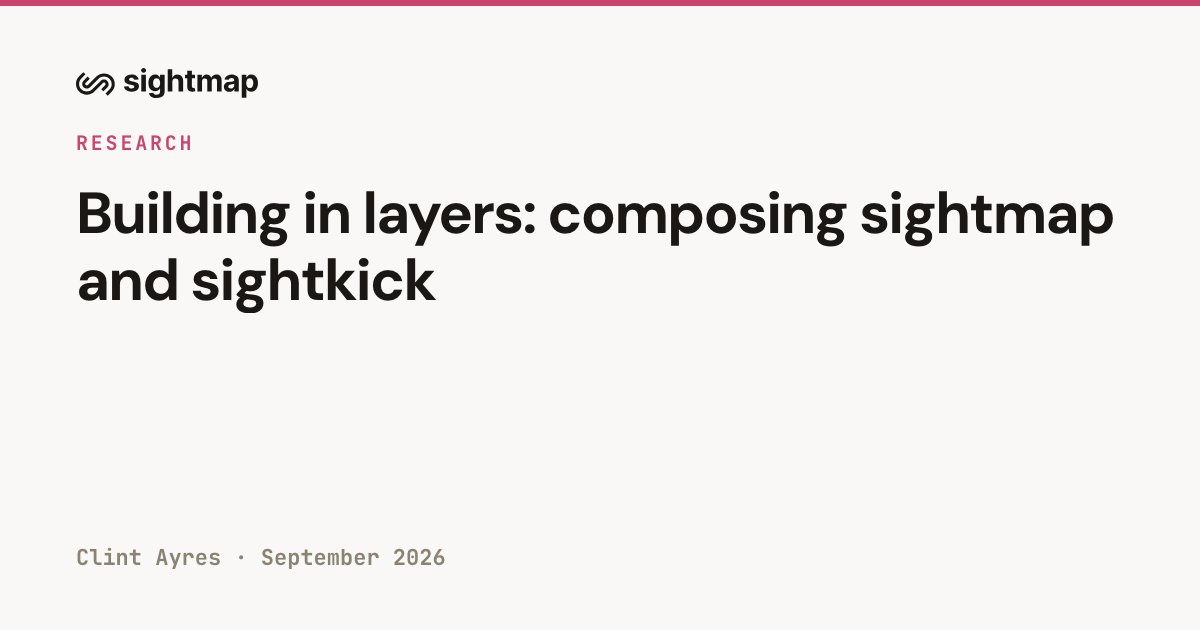
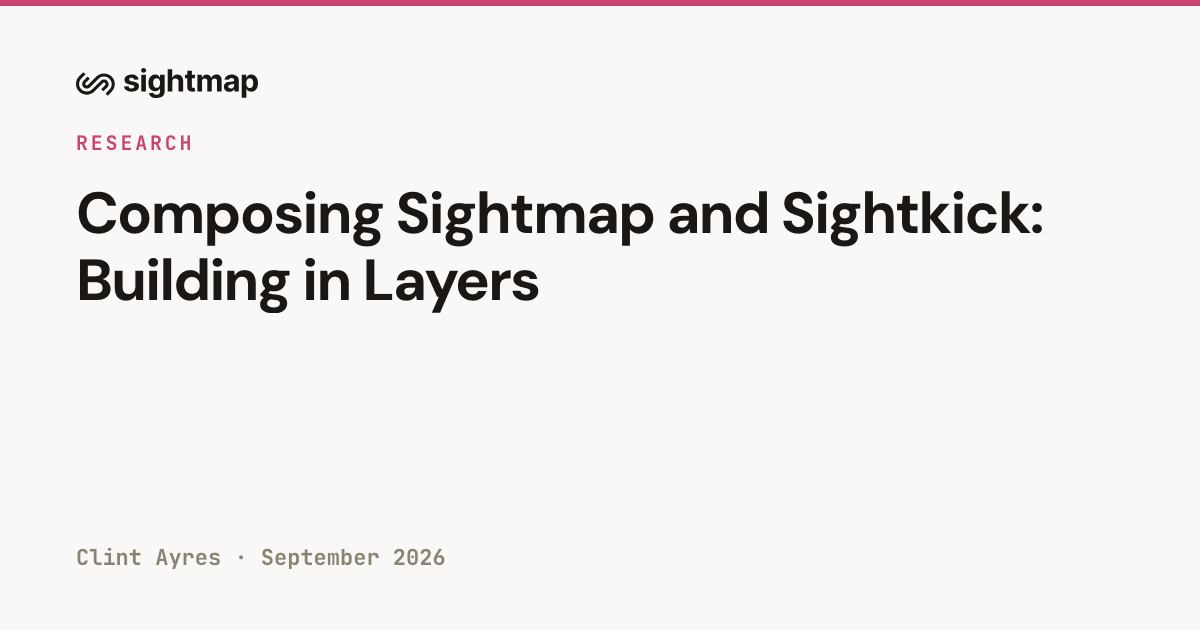
blog: restore the drafted intro and title, label calls vs guidance in frames
Title is 'Composing Sightmap and Sightkick: Building in Layers'.

Intro and layer descriptions now carry the drafted wording verbatim
rather than a condensed paraphrase of it.

The frame stepper's caption ran the call, the description, and the
next-step guidance together in one line, so it read as though
place_order and read_order_id were the same thing. Split into a CALLED
row (tool plus the params the feature line supplied) and a NEXT CALL
row (the successor the guidance names, which is advice, not history).
Shared with the sightkick post, which had the same ambiguity.

Changed region(s): [[0.0617, 0.3016, 0.925, 0.5127]]

diff --git a/web/src/components/blog/SightkickFrames.tsx b/web/src/components/blog/SightkickFrames.tsx
@@ -1,18 +1,25 @@
 import { useState } from 'react'
 
-// Frame-sequence stepper for the sightkick post: a numbered set of real
-// screenshots captured mid-session, stepped one at a time. Two figures:
-// "tool" walks one tool call's before/after; "journey" walks a full
-// purchase across all five views. Each frame pairs the screenshot with the
-// real guidance breadcrumb the prior tool call returned, so a "journey" —
-// which never executes anything itself — is shown as what it actually is:
-// the breadcrumbs an agent follows, not a recording of clicks.
+// Frame-sequence stepper: a numbered set of real screenshots captured
+// mid-session, stepped one at a time. Three figures: "tool" walks one tool
+// call's before/after, "customize" does the same for the item page, and
+// "journey" walks a full purchase across all five views.
+//
+// Each frame separates three things that are easy to confuse when they run
+// together in one caption: the call that produced this screen (with the
+// params the feature line supplied), what the screen shows, and the
+// guidance breadcrumb naming the call to make next. A journey never
+// executes anything itself, so that last one is advice, not history.
 
 type Frame = {
   src: string
   alt: string
+  // The call this frame is the result of, params included.
+  call: string
   caption: string
-  breadcrumb?: string
+  // The successor the prior call's guidance pointed at, and the author's
+  // reason for it. Advice for the next call, not something that ran.
+  next?: { tool: string; reason: string }
 }
 
 type FigureData = { frames: Frame[] }
@@ -25,21 +32,27 @@ const FIGURES: Record<string, FigureData> = {
       {
         src: `${IMG}/tool-04-promo-before.png`,
         alt: 'Checkout Review step, promo code field empty, total $23.65',
-        caption: 'Before: apply_promo(code="BURRITO20") has not run yet.',
+        call: 'apply_promo(code: "BURRITO20")',
+        caption: 'Before the call: the promo field is empty and the total is $23.65.',
       },
       {
         src: `${IMG}/tool-05-promo-after.png`,
         alt: 'Checkout Review step, BURRITO20 applied, total $18.92',
+        call: 'apply_promo(code: "BURRITO20")',
         caption:
-          'After: one call filled the code, clicked Apply, and confirmed the discount landed.',
-        breadcrumb:
-          'guidance → read_order_total: "read the discounted total while it still exists — it doesn\'t survive to the confirmation"',
+          'After: one call filled the code, clicked Apply, and waited for the discount to land.',
+        next: {
+          tool: 'read_order_total',
+          reason:
+            "read the discounted total while it still exists, it doesn't survive to the confirmation",
+        },
       },
       {
         src: `${IMG}/tool-06-promo-detail.png`,
         alt: 'Close-up of the order totals showing the promo line and new total',
+        call: 'apply_promo → returns',
         caption:
-          'The tool\'s own return value: value: "Total: $18.92" — the same number now on screen.',
+          'The tool\'s own return value: value: "Total: $18.92", read off ReviewTotals.total, the same number now on screen.',
       },
     ],
   },
@@ -48,11 +61,13 @@ const FIGURES: Record<string, FigureData> = {
       {
         src: `${IMG}/tool-02-item-before.png`,
         alt: 'Classic Burrito detail page, PROTEIN group with chicken selected, quantity 1',
-        caption: 'Before: customize_item(group: "protein", option: "steak") has not run yet.',
+        call: 'customize_item(group: "protein", option: "steak")',
+        caption: 'Before the call: the PROTEIN group still has its default, chicken, selected.',
       },
       {
         src: `${IMG}/tool-03-item-after.png`,
         alt: 'The same page with steak now selected in the PROTEIN group',
+        call: 'customize_item(group: "protein", option: "steak")',
         caption:
           'After: the option came back with a selected class, which is exactly what wait_for watches for. Call it again and the guard matches that same state, so nothing clicks twice.',
       },
@@ -63,53 +78,74 @@ const FIGURES: Record<string, FigureData> = {
       {
         src: `${IMG}/tool-01-menu.png`,
         alt: 'Burrito Co. menu with five items',
-        caption: 'read_menu — start of the purchase journey.',
-        breadcrumb:
-          'guidance → open_item: "customizations only exist on an item\'s own detail page"',
+        call: 'read_menu()',
+        caption: 'The start of the purchase journey: five menu rows, name and price.',
+        next: {
+          tool: 'open_item',
+          reason: "customizations only exist on an item's own detail page",
+        },
       },
       {
         src: `${IMG}/journey-02-item.png`,
         alt: 'Classic Burrito detail page, steak selected, quantity 2',
-        caption: 'customize_item("protein", "steak") + increase_item_quantity.',
-        breadcrumb:
-          'guidance → add_item_to_cart: "commit the item — this lands you on the cart, not back on the menu"',
+        call: 'customize_item(group: "protein", option: "steak") → increase_item_quantity()',
+        caption: 'Steak selected, quantity bumped to 2. Quantity is set here, not in the cart.',
+        next: {
+          tool: 'add_item_to_cart',
+          reason: 'commit the item, this lands you on the cart, not back on the menu',
+        },
       },
       {
         src: `${IMG}/journey-03-cart.png`,
         alt: 'Cart with one line: 2x Classic Burrito, $21.90',
-        caption: 'add_item_to_cart — the app navigates straight to the cart.',
-        breadcrumb:
-          'guidance → go_to_checkout: "only reachable from the cart, and only when the cart is non-empty"',
+        call: 'add_item_to_cart()',
+        caption: 'The tool does not just add, it navigates: the app lands straight on the cart.',
+        next: {
+          tool: 'go_to_checkout',
+          reason: 'only reachable from the cart, and only when the cart is non-empty',
+        },
       },
       {
         src: `${IMG}/journey-04-checkout-delivery.png`,
         alt: 'Checkout Delivery step with address fields filled',
-        caption: 'go_to_checkout — lands on step 1 of 3, Delivery.',
-        breadcrumb:
-          'guidance → submit_delivery_address: "the Delivery step gates the wizard; this advances it to Payment"',
+        call: 'go_to_checkout()',
+        caption: 'Lands on step 1 of 3, Delivery.',
+        next: {
+          tool: 'submit_delivery_address',
+          reason: 'the Delivery step gates the wizard; this advances it to Payment',
+        },
       },
       {
         src: `${IMG}/journey-05-checkout-payment.png`,
         alt: 'Checkout Payment step with card fields filled',
-        caption: 'submit_delivery_address — same route, now on step 2, Payment.',
-        breadcrumb:
-          'guidance → submit_payment_details: "pass a real 16-digit card — the pre-filled masked one is rejected"',
+        call:
+          'submit_delivery_address(street: "123 Main St", city: "Denver", state: "CO", zip: "80203")',
+        caption: 'Same route, now on step 2, Payment. The returned value is the active step name.',
+        next: {
+          tool: 'submit_payment_details',
+          reason: 'pass a real 16-digit card, the pre-filled masked one is rejected',
+        },
       },
       {
         src: `${IMG}/journey-06-checkout-review.png`,
         alt: 'Checkout Review step before the promo code',
-        caption:
-          'submit_payment_details — step 3, Review. Still no navigation: same URL as Delivery.',
-        breadcrumb:
-          'guidance → apply_promo: "BURRITO20 is only applyable on the Review step, before ordering"',
+        call: 'submit_payment_details(card_number: "4242 4242 4242 4242", expiry: "09/26")',
+        caption: 'Step 3, Review. Still no navigation: the same URL as Delivery.',
+        next: {
+          tool: 'apply_promo',
+          reason: 'BURRITO20 is only applyable on the Review step, before ordering',
+        },
       },
       {
         src: `${IMG}/journey-07-confirmation.png`,
         alt: 'Order confirmation screen showing an order id and the full (non-discounted) total',
+        call: 'place_order()',
         caption:
-          'place_order — order confirmed. Notice the total: $23.65, not $18.92 — the promo never reaches this screen.',
-        breadcrumb:
-          'guidance → read_order_id: "read the generated order id back as proof the order landed"',
+          'Order confirmed. Note the total: $23.65, not $18.92. The promo never reaches this screen.',
+        next: {
+          tool: 'read_order_id',
+          reason: 'read the generated order id back as proof the order landed',
+        },
       },
     ],
   },
@@ -150,8 +186,18 @@ export default function SightkickFrames({ figure = 'tool' }: { figure?: string }
         </button>
       </div>
       <figcaption>
-        {frame.caption}
-        {frame.breadcrumb && <div className="sk-frames__breadcrumb">{frame.breadcrumb}</div>}
+        <div className="sk-frames__call">
+          <span className="sk-frames__label">called</span>
+          <code>{frame.call}</code>
+        </div>
+        <div className="sk-frames__note">{frame.caption}</div>
+        {frame.next && (
+          <div className="sk-frames__breadcrumb">
+            <span className="sk-frames__label">next call</span>
+            <code>{frame.next.tool}</code>
+            <span className="sk-frames__reason">{frame.next.reason}</span>
+          </div>
+        )}
       </figcaption>
     </figure>
   )

diff --git a/web/src/index.css b/web/src/index.css
@@ -2009,15 +2009,67 @@ footer {
   color: var(--text-dim);
 }
 
+/* "called" and "next call" carry the distinction the caption used to blur:
+   what produced this screen, versus the guidance naming what to call next.
+   Both get the same label chip so the pairing is obvious at a glance. */
+.prose .sk-frames__label {
+  flex: none;
+  padding: 0.05rem 0.4rem;
+  border-radius: 5px;
+  background: var(--bg-subtle);
+  border: 1px solid var(--border);
+  font-family: var(--mono);
+  font-size: 0.62rem;
+  text-transform: uppercase;
+  letter-spacing: 0.06em;
+  color: var(--text-dim);
+}
+
+.prose .sk-frames__call,
 .prose .sk-frames__breadcrumb {
-  margin-top: 0.4rem;
+  display: flex;
+  flex-wrap: wrap;
+  align-items: baseline;
+  gap: 0.5rem;
+}
+
+.prose .sk-frames__call {
+  margin-bottom: 0.5rem;
+}
+
+.prose .sk-frames__call code,
+.prose .sk-frames__breadcrumb code {
+  font-family: var(--mono);
+  font-size: 0.78rem;
+  color: var(--text-bright);
+  background: none;
+  padding: 0;
+}
+
+.prose .sk-frames__note {
+  font-size: 0.85rem;
+  color: var(--text-dim);
+}
+
+.prose .sk-frames__breadcrumb {
+  margin-top: 0.5rem;
   padding: 0.5rem 0.75rem;
   border-radius: 8px;
   border: 1px solid var(--accent-dim);
   background: var(--accent-dim);
-  font-family: var(--mono);
   font-size: 0.78rem;
   color: var(--text);
+}
+
+.prose .sk-frames__breadcrumb .sk-frames__label {
+  background: transparent;
+  border-color: var(--accent);
+  color: var(--accent);
+}
+
+.prose .sk-frames__reason {
+  font-size: 0.78rem;
+  color: var(--text-dim);
 }
 
 /* Feature trace: the three-tier playback widget for the "building-in-layers"

diff --git a/web/content/blog/building-in-layers.md b/web/content/blog/building-in-layers.md
@@ -1,5 +1,5 @@
 ---
-title: 'Building in layers: composing sightmap and sightkick'
+title: 'Composing Sightmap and Sightkick: Building in Layers'
 excerpt: "What does browser automation look like when you design it for autonomous agents from day one? Three layers: a map that names the app, a toolbox of atomic actions over those names, and a spec that composes them. Each layer references the one below it only by name, and each one answers pass or fail on its own."
 topic: 'research'
 date: '2026-09-22'
@@ -8,13 +8,13 @@ slug: 'building-in-layers'
 image: '/blog/og/building-in-layers.png'
 ---
 
-What does browser automation look like when you design it for autonomous agents from day one?
+What does browser automation look like when you design it for autonomous AI agents from day one?
 
-Ask an agent to operate a modern web app and it hits a wall. The raw DOM is noisy, CSS selectors churn, and apps hide their state behind dynamic routing. Forcing a model to parse markup, infer business logic, locate elements, and execute all at once guarantees failure. The agent isn't failing for lack of intelligence. It's failing because we handed it the wrong primitives.
+If you ask an LLM agent to interact with a modern web app, it hits a fundamental wall. The raw DOM is too noisy, CSS selectors change constantly, and web apps hide their state behind complex, dynamic routing. Forcing an agent to parse raw HTML, infer business logic, map elements, and execute actions all at once guarantees failure. The agent isn't failing because it lacks intelligence; it's failing because we haven't given it the right primitives.
 
-An agent-first approach means rethinking the interface between models and web apps. Instead of treating the browser as a chaotic canvas of DOM nodes to guess against, decompose the interaction into structured, machine-legible layers.
+An agent-first approach requires rethinking the interface between models and web applications. Instead of treating the browser as a chaotic canvas of raw DOM nodes for an agent to guess against, we need to decompose web interaction into structured, machine-legible layers.
 
-That shift is why we built [sightmap](/blog/sightmap) and [sightkick](/blog/sightkick). Together they form a three-tier architecture built for agentic execution: a map, a toolbox, and a spec. Each layer is a checked-in artifact that references the layer below it strictly by name, and nothing more.
+That shift in perspective is why we built [Sightmap](/blog/sightmap) and [Sightkick](/blog/sightkick). Together, they establish a three-tiered architecture designed specifically for agentic execution: a map, a toolbox, and a spec. Each layer is a checked-in artifact, referencing the layer below it strictly by name, and nothing more.
 
 ## Three layers, bottom to top
 
@@ -24,7 +24,7 @@ That shift is why we built [sightmap](/blog/sightmap) and [sightkick](/blog/sigh
 
 Each example below is real, taken from Burrito Co.'s checkout.
 
-1. **Components (`.sightmap`), the agent's map.** Before an agent can act it needs a reliable map of the terrain. A [sightmap](/blog/sightmap) isolates the raw DOM by naming every view, component, and request in your app. **This is the only layer where CSS selectors exist.** The agent never sees CSS, only semantic component names. Here's `ReviewTotals`, the order-totals block on the checkout Review step:
+1. **Components (`.sightmap`), the agent's map.** Before an agent can act, it needs a reliable map of the terrain. A [Sightmap](/blog/sightmap) isolates the raw DOM by naming every view, component, and request in your application (e.g., `MenuCard`, `ApplyPromoButton`, `ReviewTotals`). **This is the only layer where raw CSS selectors exist.** The agent never sees CSS; it only sees clean, semantic component names. Here's `ReviewTotals`, the order-totals block on the checkout Review step:
 
    ```yaml
    - name: ReviewTotals
@@ -41,7 +41,7 @@ Each example below is real, taken from Burrito Co.'s checkout.
              extract: text
    ```
 
-2. **Tools (`.sightkick`), the agent's capabilities.** Rather than asking an agent to write browser manipulation code, [sightkick](/blog/sightkick) turns component names into atomic, callable tools. Every `query:` field references a corpus component by name, so `sightkick build` can validate the entire toolset up front: an agent can never invoke an action against a component that doesn't exist.
+2. **Tools (`.sightkick`), the agent's capabilities.** Instead of asking an agent to write raw browser manipulation code, [Sightkick](/blog/sightkick) translates component names into atomic, callable tools like `apply_promo`, `read_cart`, or `place_order`. A tool's `query` fields strictly reference Sightmap component names. Running `sightkick build` validates the entire toolset, ensuring an agent can never invoke an action on a component that doesn't exist.
 
    ```yaml
    - name: apply_promo
@@ -70,7 +70,7 @@ Each example below is real, taken from Burrito Co.'s checkout.
          property: total
    ```
 
-3. **The spec (`.feature` plus a plan), the intent.** At the top sits human-readable intent: a `.feature` file paired with a compiled execution plan. Every Gherkin line maps to a single tool call and an expectation, serialized as checked-in JSON.
+3. **The spec (`.feature` + plan), the agent's intent.** At the highest level sits the human-readable intent: a `.feature` file paired with a compiled execution plan. Every line of Gherkin maps directly to a single tool call and an expected state assertion, serialized as clean JSON.
 
    ```json
    {
